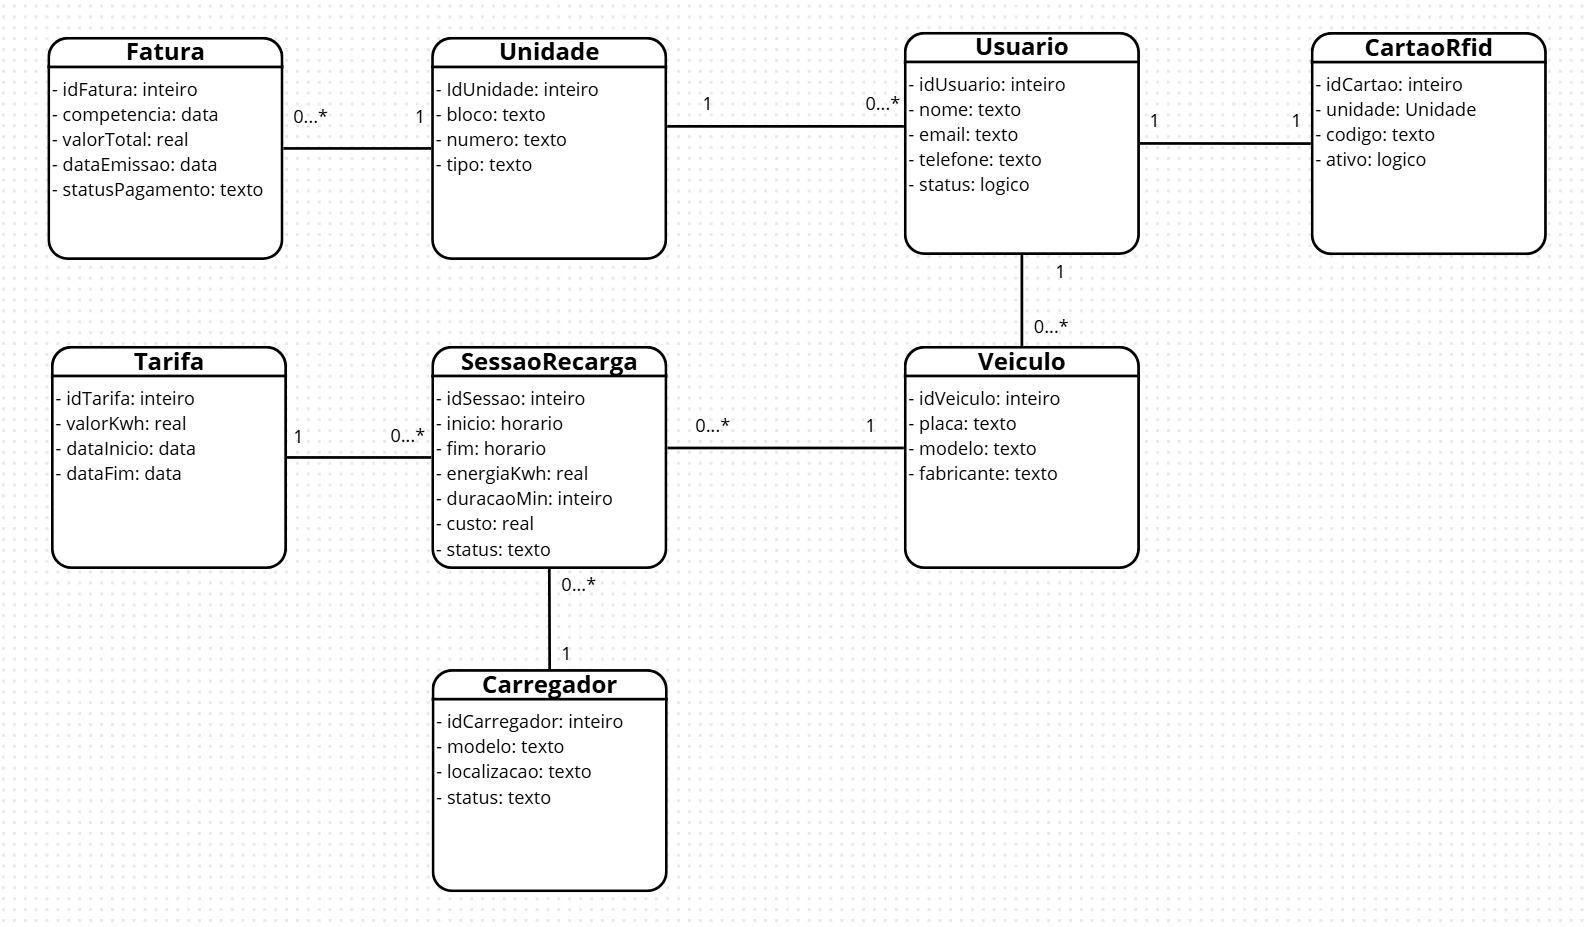
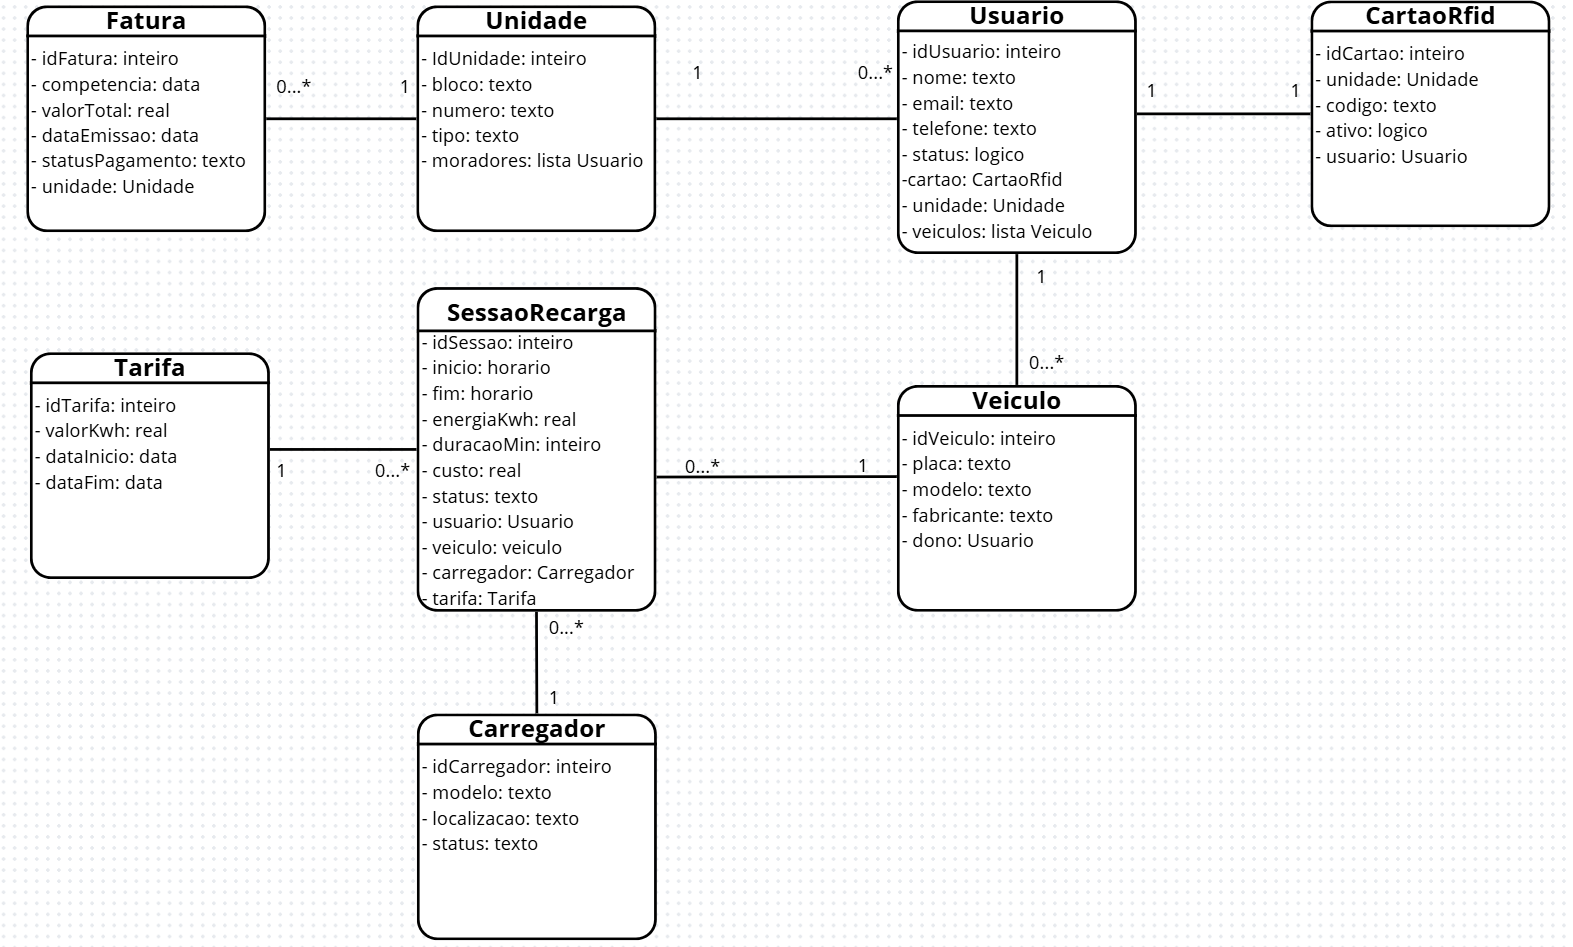
final

Changed region(s): [[0.0, 0.0, 0.9968, 0.9968], [0.8411, 0.2718, 0.9657, 0.302]]

diff --git a/README.md b/README.md
@@ -422,6 +422,56 @@ Os consumos são somados na mesma fatura
 
 ![Diagrama de classes ](assets/diagrama_arquitetura.png)
 
+### Unidade
+| idUnidade | bloco | numero | tipo        |
+| --------- | ----- | ------ | ----------- |
+| 1         | A     | 101    | Apartamento |
+| 2         | A     | 102    | Apartamento |
+| 3         | B     | 201    | Apartamento |
+
+### Usuário
+| idUsuario | nome            | email                                       | telefone    | status  | idUnidade |
+| --------- | --------------- | ------------------------------------------- | ----------- | ------- | --------- |
+| 1         | João Silva      | [[email redacted]](mailto:[email redacted])     | 11999990001 | Ativo   | 1         |
+| 2         | Maria Souza     | [[email redacted]](mailto:[email redacted])   | 11999990002 | Ativo   | 1         |
+| 3         | Carlos Oliveira | [[email redacted]](mailto:[email redacted]) | 11999990003 | Ativo   | 2         |
+| 4         | Ana Costa       | [[email redacted]](mailto:[email redacted])       | 11999990004 | Inativo | 3         |
+
+### Veículo
+| idVeiculo | placa   | modelo       | fabricante | idUsuario |
+| --------- | ------- | ------------ | ---------- | --------- |
+| 1         | ABC1D23 | Dolphin Mini | BYD        | 1         |
+| 2         | DEF4G56 | Dolphin Plus | BYD        | 2         |
+| 3         | HIJ7K89 | Model 3      | Tesla      | 3         |
+| 4         | LMN0P12 | Ora 03       | GWM        | 4         |
+
+### Carregador
+| idCarregador | modelo        | localizacao     | status      |
+| ------------ | ------------- | --------------- | ----------- |
+| 1            | GoodWe HCA G2 | Garagem Bloco A | Disponível  |
+| 2            | GoodWe HCA G2 | Garagem Bloco B | Em Operação |
+
+### Tarifa
+| idTarifa | valorKwh | dataInicio | dataFim    |
+| -------- | -------- | ---------- | ---------- |
+| 1        | 0,90     | 01/01/2026 | 30/06/2026 |
+| 2        | 1,05     | 01/07/2026 | 31/12/2026 |
+
+### Sessão de Recarga
+| idSessao | inicio           | fim              | energiaKwh | duracaoMin | custo | status       | idUsuario | idVeiculo | idCarregador | idTarifa |
+| -------- | ---------------- | ---------------- | ---------- | ---------- | ----- | ------------ | --------- | --------- | ------------ | -------- |
+| 1        | 15/06/2026 18:00 | 15/06/2026 21:00 | 32,0       | 180        | 28,80 | Concluída    | 1         | 1         | 1            | 1        |
+| 2        | 16/06/2026 19:30 | 16/06/2026 22:00 | 24,5       | 150        | 22,05 | Concluída    | 2         | 2         | 1            | 1        |
+| 3        | 17/06/2026 20:00 | 17/06/2026 23:20 | 38,0       | 200        | 34,20 | Concluída    | 3         | 3         | 2            | 1        |
+| 4        | 18/06/2026 22:15 | 18/06/2026 23:45 | 15,0       | 90         | 13,50 | Interrompida | 1         | 1         | 1            | 1        |
+
+### Fatura
+| idFatura | competencia | valorTotal | dataEmissao | statusPagamento | idUnidade |
+| -------- | ----------- | ---------- | ----------- | --------------- | --------- |
+| 1        | Junho/2026  | 64,35      | 30/06/2026  | Pendente        | 1         |
+| 2        | Junho/2026  | 34,20      | 30/06/2026  | Pago            | 2         |
+| 3        | Junho/2026  | 0,00       | 30/06/2026  | Não Gerada      | 3         |
+
 # EV ChargeOps - Papel da Inteligência Artificial na Plataforma
 
 ## 1. Introdução